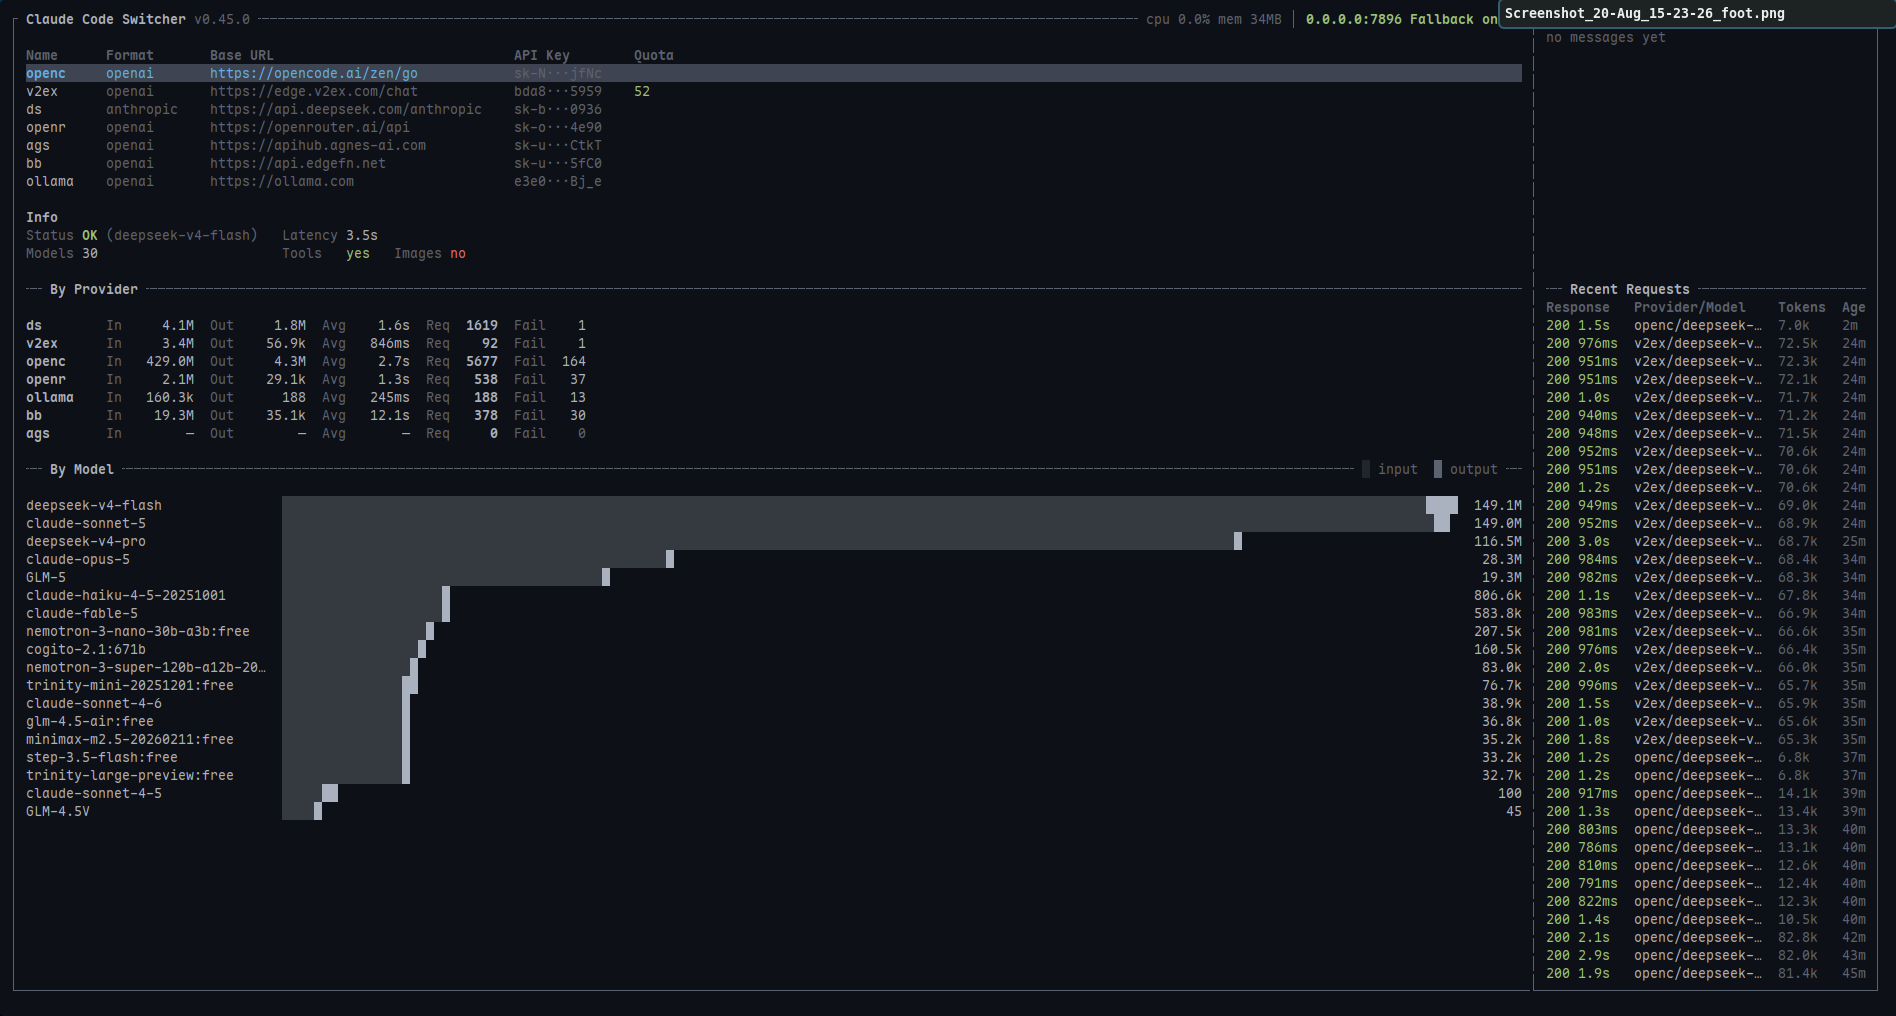
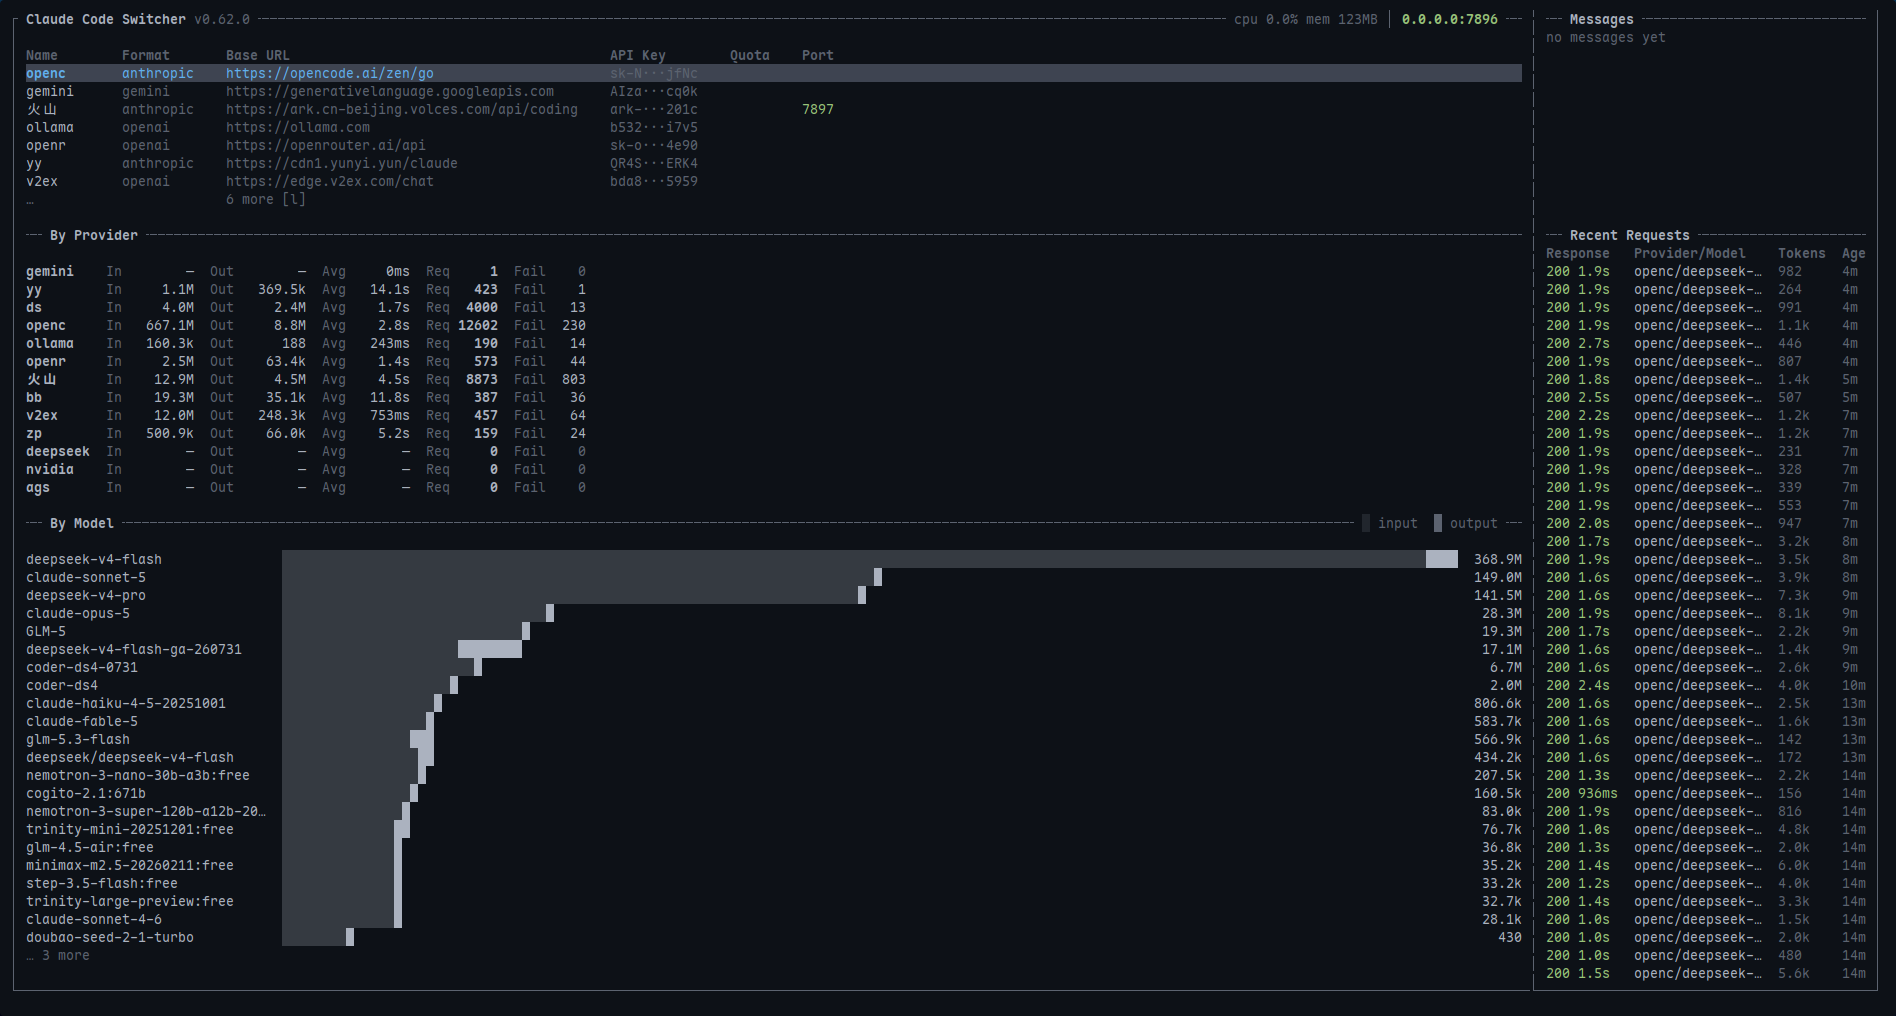
fix(tui): expand Format dropdown only in Insert mode
In the provider editor, focusing the Format field previously opened the
dropdown immediately, which intercepted arrow keys in Normal mode. Now
the dropdown only expands in Insert mode, keeping normal field
navigation consistent. Also style the dropdown header as "Options" and
dynamically list valid formats in error messages.

diff --git a/src/tui/testing.rs b/src/tui/testing.rs
@@ -436,21 +436,27 @@ pub(crate) mod tests {
         assert_eq!(saved.api_format, ApiFormat::Anthropic);
     }
 
-    /// Focusing the Format field opens the three-choice dropdown; `↓` then
-    /// `Enter` selects `chat_completions` and saving persists it as OpenAI.
+    /// The Format field expands into its four fixed options only in Insert
+    /// mode; `↓` then `Enter` selects `chat_completions`, and saving persists
+    /// it as OpenAI. In Normal mode `↓` just moves to the next field.
     #[tokio::test]
     async fn format_dropdown_selects_choice() {
-        use crate::tui::state::FORMAT_FIELD_IDX;
+        use crate::tui::state::{FORMAT_FIELD_IDX, VimMode};
         use crossterm::event::{KeyCode, KeyModifiers};
+
+        let press = |app: &mut App, code: KeyCode| {
+            crate::tui::input::handle_key(app, code, KeyModifiers::NONE, &mut None).unwrap();
+        };
+        let focus_format = |app: &mut App| {
+            app.form.as_mut().unwrap().focused = FORMAT_FIELD_IDX;
+        };
 
         let _guard = ConfigDirGuard::new();
         let mut app = app_with_current("first");
         app.start_edit();
-        // Focus the Format field (index 3).
-        {
-            let form = app.form.as_mut().unwrap();
-            form.focused = FORMAT_FIELD_IDX;
-        }
+
+        // Focus the Format field (index 3) while still in Normal mode.
+        focus_format(&mut app);
         assert!(
             app.form
                 .as_ref()
@@ -458,23 +464,46 @@ pub(crate) mod tests {
             "Format field focused"
         );
 
-        // `↓` opens the dropdown (highlight on first item); a second `↓`
+        // Normal mode: ↓ moves focus off the field; the options stay closed.
+        press(&mut app, KeyCode::Down);
+        assert!(
+            app.form
+                .as_ref()
+                .is_some_and(|f| !f.format_suggest.active && f.focused != FORMAT_FIELD_IDX),
+            "Normal-mode ↓ should leave the Format field without opening options"
+        );
+
+        // Refocus and enter Insert mode (`i`), which expands the options.
+        focus_format(&mut app);
+        press(&mut app, KeyCode::Char('i'));
+        assert!(
+            app.form
+                .as_ref()
+                .is_some_and(|f| f.vim_mode == VimMode::Insert),
+            "expected Insert mode after i"
+        );
+
+        // `↓` opens the options (highlight on first item); a second `↓`
         // moves the highlight to the second item (chat_completions).
-        crate::tui::input::handle_key(&mut app, KeyCode::Down, KeyModifiers::NONE, &mut None)
-            .unwrap();
+        press(&mut app, KeyCode::Down);
         assert!(
             app.form.as_ref().is_some_and(|f| f.format_suggest.active),
-            "dropdown active after ↓"
+            "options active after ↓ in Insert mode"
         );
-        crate::tui::input::handle_key(&mut app, KeyCode::Down, KeyModifiers::NONE, &mut None)
-            .unwrap();
+        press(&mut app, KeyCode::Down);
 
-        // `Enter` selects the highlighted choice (chat_completions).
-        crate::tui::input::handle_key(&mut app, KeyCode::Enter, KeyModifiers::NONE, &mut None)
-            .unwrap();
+        // `Enter` selects the highlighted choice (chat_completions) and
+        // collapses the options by returning to Normal mode.
+        press(&mut app, KeyCode::Enter);
         assert_eq!(
             app.form.as_ref().unwrap().fields[FORMAT_FIELD_IDX].value,
             "chat_completions"
+        );
+        assert!(
+            app.form
+                .as_ref()
+                .is_some_and(|f| f.vim_mode == VimMode::Normal),
+            "selection should return to Normal mode"
         );
 
         app.save_form_and_close().unwrap();

diff --git a/src/tui/editor.rs b/src/tui/editor.rs
@@ -92,9 +92,10 @@ pub(super) fn handle_key(
     }
 
     // ── Format field dropdown ─────────────────────────────────────────────────
-    // When the Format field is focused, show its three choices and let the
-    // user navigate (`↓` / `Ctrl-J`) and select (`Enter`).
-    if !in_routes && form.focused == FORMAT_FIELD_IDX && form.fields[FORMAT_FIELD_IDX].editable {
+    // In Insert mode on the Format field its fixed options expand and let the
+    // user navigate (`↓` / `Ctrl-J`) and select (`Enter`); in Normal mode the
+    // field behaves like any other (↓/↑ move between fields, nothing expands).
+    if format_dropdown_active(form) {
         let choices = format_suggest_choices(form);
         let len = choices.len();
         match code {
@@ -309,7 +310,7 @@ pub(super) fn draw_popup(f: &mut Frame, app: &App) {
         vim_tag
     );
 
-    let format_choices: Vec<&'static str> = if form.focused == FORMAT_FIELD_IDX && !in_routes {
+    let format_choices = if format_dropdown_active(form) {
         format_suggest_choices(form)
     } else {
         Vec::new()
@@ -406,7 +407,7 @@ pub(super) fn draw_popup(f: &mut Frame, app: &App) {
                     &format_choices,
                     &form.format_suggest,
                     prov_color,
-                    SuggestionStyle::Classic,
+                    SuggestionStyle::Options,
                 );
                 f.render_widget(Paragraph::new(lines), render_target);
             }
@@ -562,8 +563,17 @@ fn prune_current_rule(form: &mut ProviderForm, provider_models: &[String]) {
     }
 }
 
-/// Format choices shown for the Format field. A complete current choice
-/// (exact match in [`crate::config::FORMAT_CHOICES`]) shows all three — it's
+/// True while the Format field's option dropdown is shown: focused on it in
+/// Insert mode. Normal mode never expands — ↓/↑ just move between fields.
+fn format_dropdown_active(form: &ProviderForm) -> bool {
+    !form.in_routes()
+        && form.vim_mode == VimMode::Insert
+        && form.focused == FORMAT_FIELD_IDX
+        && form.fields[FORMAT_FIELD_IDX].editable
+}
+
+/// Format options shown for the Format field. A complete current choice
+/// (exact match in [`crate::config::FORMAT_CHOICES`]) shows all four — it's
 /// a select field, not free text; a partial typed prefix narrows by prefix.
 fn format_suggest_choices(form: &ProviderForm) -> Vec<&'static str> {
     let raw = form.fields[FORMAT_FIELD_IDX].value.trim().to_lowercase();

diff --git a/src/tui/ui/format.rs b/src/tui/ui/format.rs
@@ -24,13 +24,15 @@ pub(crate) fn cursor_split_spans(text: &str, cursor: usize, color: Color) -> Vec
     ]
 }
 
-/// Suggestion list presentation.
+/// Dropdown list presentation.
 pub(crate) enum SuggestionStyle {
     /// Routes target: titled list with (n/m) counter, indented, ▶ highlight.
     Classic,
+    /// Fixed Format-field options: titled list of the API formats.
+    Options,
 }
 
-/// Render a model-suggestion list (8-row window).
+/// Render a dropdown list (8-row window for lists longer than 8 entries).
 /// Empty list → empty Vec, so callers can unconditionally `extend`.
 pub(crate) fn render_suggestion_lines(
     suggestions: &[&str],
@@ -47,21 +49,22 @@ pub(crate) fn render_suggestion_lines(
     let total = suggestions.len();
     let window = &suggestions[scroll..total.min(scroll + 8)];
 
-    if matches!(style, SuggestionStyle::Classic) {
-        let scroll_hint = if total > 8 {
-            format!(
-                "  ── Suggestions ({}/{}) ─────────────────",
-                scroll + window.len(),
-                total
-            )
-        } else {
-            "  ── Suggestions ────────────────────────".to_string()
-        };
-        lines.push(Line::from(Span::styled(
-            scroll_hint,
-            Style::default().fg(t::MUTED),
-        )));
-    }
+    let (title, counter) = match style {
+        SuggestionStyle::Classic => ("Suggestions", total > 8),
+        SuggestionStyle::Options => ("Options", false),
+    };
+    let head = if counter {
+        format!("  ── {title} ({}/{}) ", scroll + window.len(), total)
+    } else {
+        format!("  ── {title} ")
+    };
+    // Pad with ─ so every titled header spans the same fixed width.
+    let dashes = "─".repeat(41usize.saturating_sub(head.chars().count()));
+    let scroll_hint = format!("{head}{dashes}");
+    lines.push(Line::from(Span::styled(
+        scroll_hint,
+        Style::default().fg(t::MUTED),
+    )));
 
     for (wi, model) in window.iter().enumerate() {
         let is_hi = suggest.active && scroll + wi == suggest.idx;

diff --git a/src/tui/state/mod.rs b/src/tui/state/mod.rs
@@ -261,8 +261,8 @@ pub struct App {
     pub(super) config_needs_sync: bool,
 }
 
-/// Keyboard-navigable suggestion dropdown state shared by any text field
-/// offering model-name autocomplete (route Target).
+/// Keyboard-navigable dropdown state shared by any text field offering a
+/// filterable list: route-target model suggestions or the Format options.
 #[derive(Default)]
 pub struct SuggestState {
     /// True when keyboard navigation focus is inside the suggestion list.
@@ -336,7 +336,7 @@ pub struct ProviderForm {
     pub route_suggest: SuggestState,
 
     // ── Format field dropdown ──
-    /// Suggestion dropdown for the Format field's three choices.
+    /// Option-list highlight state for the Format field's four choices.
     pub format_suggest: SuggestState,
     /// Pending first key of a two-key sequence (`dd`, `gg`, `yy`) inside the form.
     pub pending_key: Option<(char, std::time::Instant)>,

diff --git a/src/tui/ui/dialogs.rs b/src/tui/ui/dialogs.rs
@@ -50,7 +50,7 @@ pub(super) fn draw_help(f: &mut Frame, scroll: &mut u16) {
                 ("h / l", "Move cursor (Normal)"),
                 ("0 / $", "Jump to field start / end (Normal)"),
                 ("Tab / S-Tab", "Next / previous field"),
-                ("Format field", "↓/↑ or C-j/C-k choose · Enter select"),
+                ("Format field", "↓/↑ choose (Insert mode) · Enter select"),
             ],
         ),
         (

diff --git a/src/tui/state/actions.rs b/src/tui/state/actions.rs
@@ -49,7 +49,10 @@ fn parse_provider_form(
     } else if crate::config::FORMAT_CHOICES.contains(&raw_format.as_str()) {
         Some(raw_format)
     } else {
-        return Err("Format must be one of: anthropic, chat_completions, responses".to_string());
+        return Err(format!(
+            "Format must be one of: {}",
+            crate::config::FORMAT_CHOICES.join(", ")
+        ));
     };
 
     let routes: Vec<RouteRule> = form

diff --git a/README.zh.md b/README.zh.md
@@ -310,7 +310,7 @@ export ANTHROPIC_BASE_URL=http://127.0.0.1:7902   # → anthropic
 
 ### 提供商编辑器（`a` / `e`）
 
-字段依次为 Name、Base URL、API Key、Format，以及 Routes 区域。Format 是下拉选择：聚焦后按 `↓`/`↑`（或 `Ctrl-J`/`Ctrl-K`）在 `anthropic` / `chat_completions` / `responses` / `gemini` 间选择，`Enter` 确认。选 `chat_completions` / `responses` 表示该提供商为 OpenAI 格式并带上对应 API 版本；选 `anthropic` 或 `gemini` 则为对应原生格式。Vim 风格，默认处于 Normal 模式。
+字段依次为 Name、Base URL、API Key、Format，以及 Routes 区域。Format 是固定四个选项的下拉（`anthropic` / `chat_completions` / `responses` / `gemini`），只在 Insert 模式下展开——聚焦后按 `i` 或 `Enter` 进入 Insert，再按 `↓`/`↑`（或 `Ctrl-J`/`Ctrl-K`）选择，`Enter` 确认。选 `chat_completions` / `responses` 表示该提供商为 OpenAI 格式并带上对应 API 版本；选 `anthropic` 或 `gemini` 则为对应原生格式。Vim 风格，默认处于 Normal 模式。
 
 | 按键 | 操作 |
 | --- | --- |

diff --git a/README.md b/README.md
@@ -310,7 +310,7 @@ Copying uses `wl-copy` (Wayland).
 
 ### Provider editor (`a` / `e`)
 
-Fields: Name, Base URL, API Key, Format, then the Routes section. The Format field is a dropdown — focus it and press `↓`/`↑` (or `Ctrl-J`/`Ctrl-K`) to choose from `anthropic` / `chat_completions` / `responses` / `gemini`, then `Enter` to select. Choosing `chat_completions` / `responses` sets the provider to OpenAI with that API version; `anthropic` or `gemini` uses that provider's native format. Vim-style, starts in Normal mode.
+Fields: Name, Base URL, API Key, Format, then the Routes section. The Format field is a dropdown of four fixed options (`anthropic` / `chat_completions` / `responses` / `gemini`) that only expands in Insert mode — press `i` or `Enter` on it, then `↓`/`↑` (or `Ctrl-J`/`Ctrl-K`) to choose and `Enter` to select. Choosing `chat_completions` / `responses` sets the provider to OpenAI with that API version; `anthropic` or `gemini` uses that provider's native format. Vim-style, starts in Normal mode.
 
 | Key | Action |
 | --- | --- |
